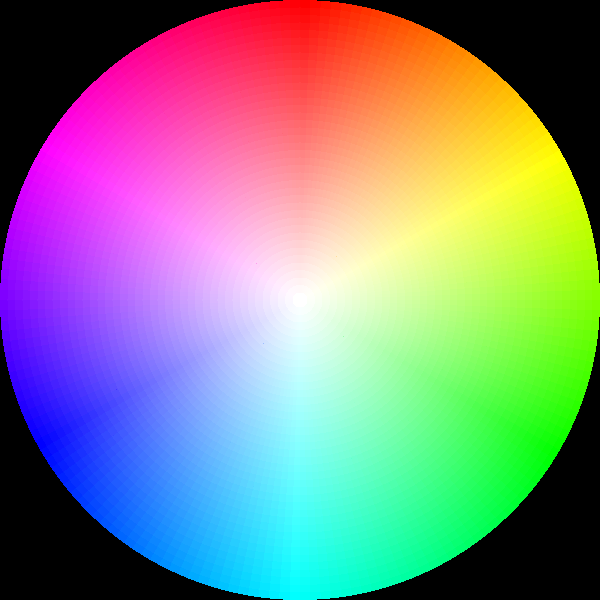
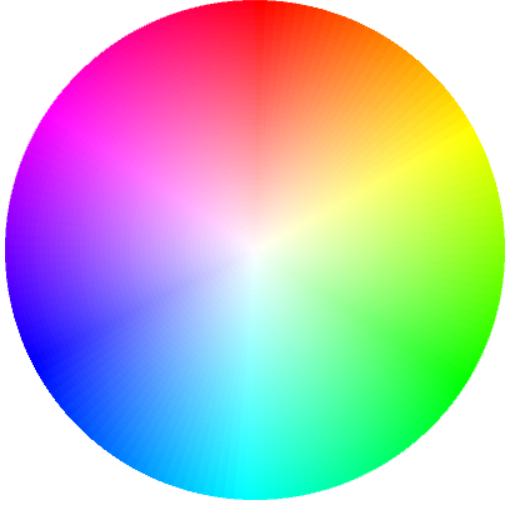
Updated image

Changed region(s): [[0.0, 0.0, 1.0, 1.0]]

diff --git a/colorir/examples/color_wheel.py b/colorir/examples/color_wheel.py
@@ -2,7 +2,7 @@ from kivy.config import Config
 Config.set('graphics', 'width', '400')
 Config.set('graphics', 'height', '400')
 from kivy.app import App
-from kivy.graphics import Ellipse, Color
+from kivy.graphics import Ellipse, Rectangle, Color
 from kivy.uix.widget import Widget
 from colorir import config, KIVY_COLOR_FORMAT, Grad, HSV
 
@@ -20,6 +20,8 @@ class WheelScreen(Widget):
 
         iter_angle = 360 / ELLIPSE_STEPS
         with self.canvas:
+            Rectangle(pos=(0, 0), size=(400, 400))  # Draw background
+
             for j in range(ELLIPSE_SEGMENTS + 1):
                 s = 1 - j / ELLIPSE_SEGMENTS
                 # Sample colors throughout the hue range for this saturation
